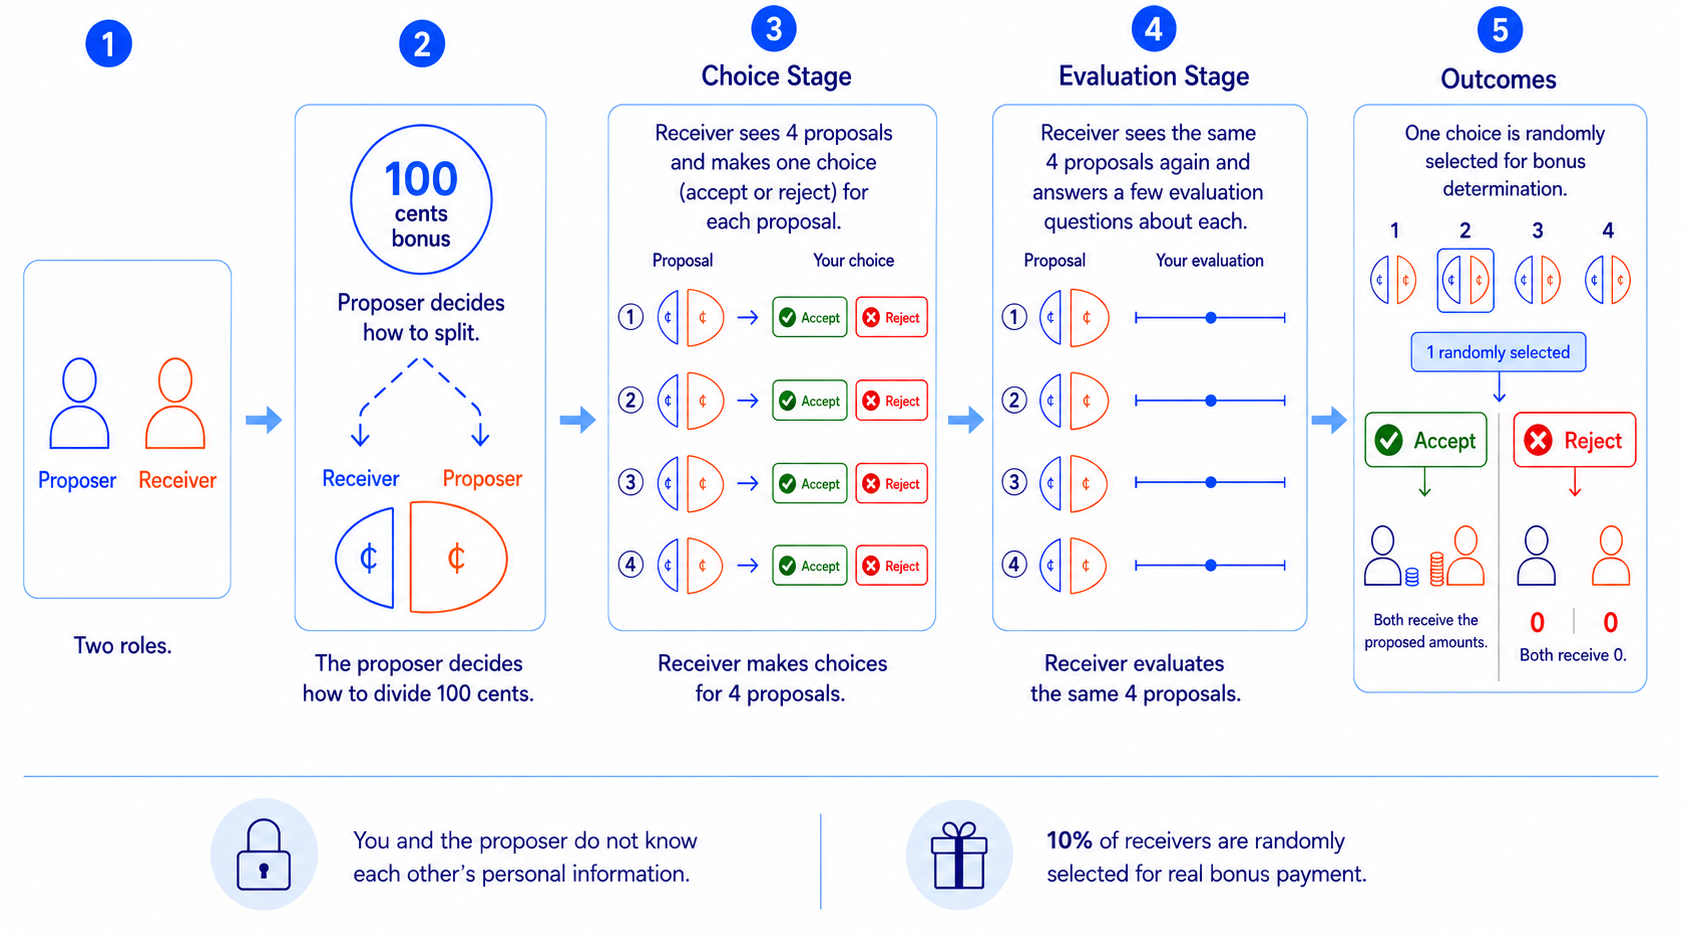
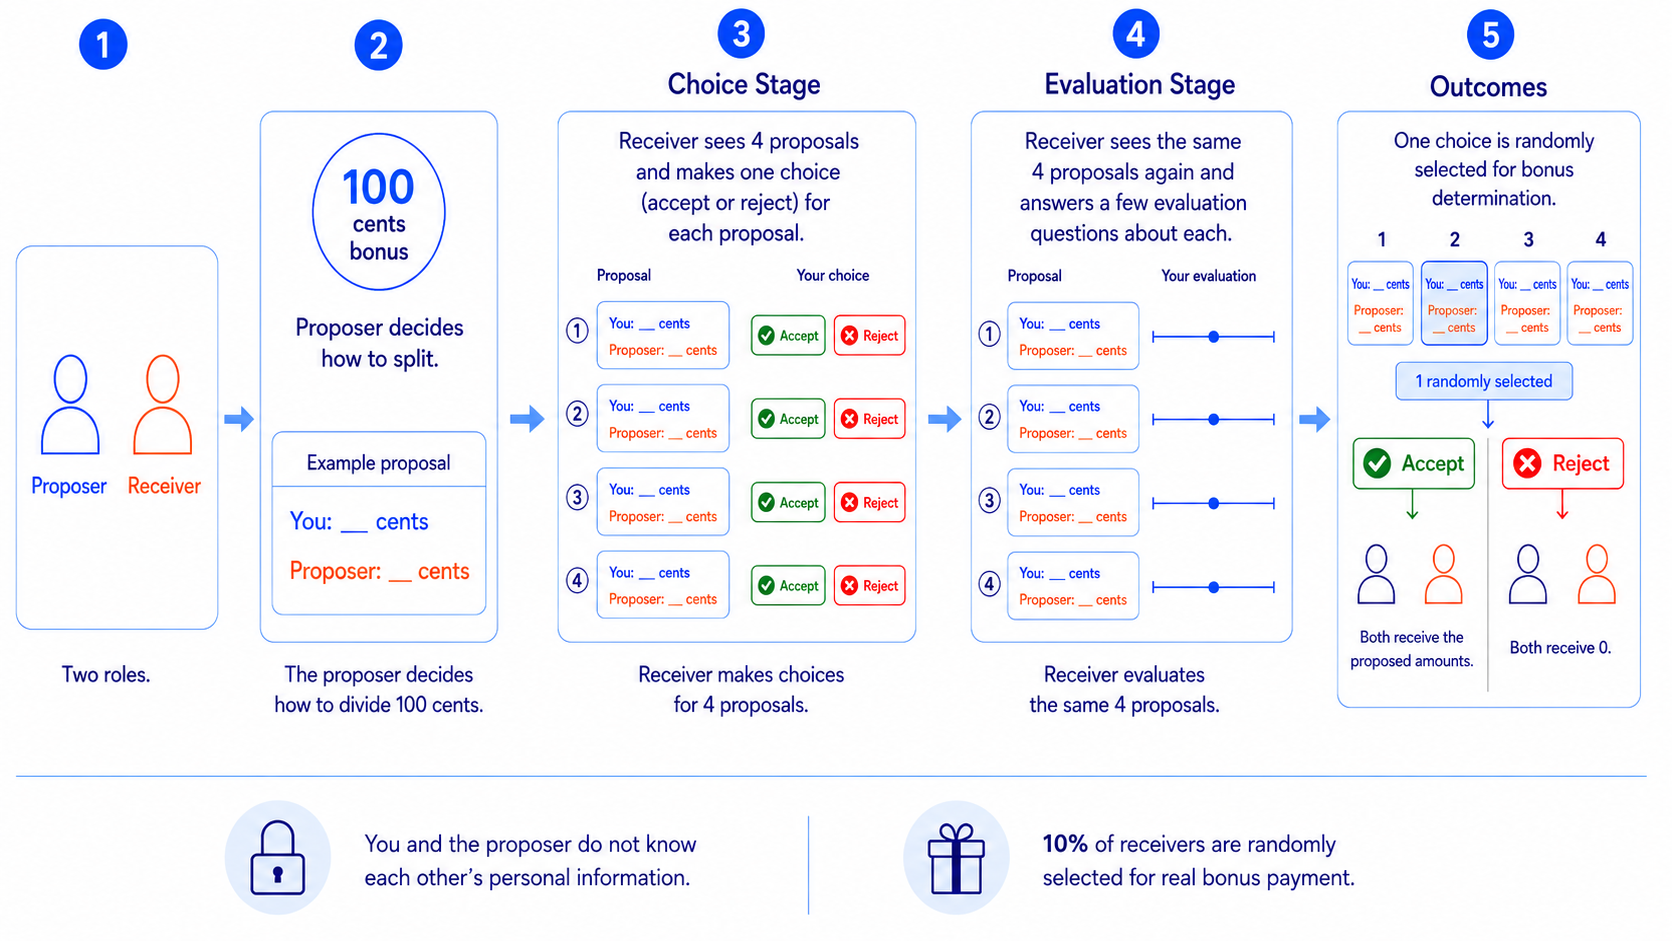
Add files via upload

diff --git a/experiment.js b/experiment.js
@@ -25,6 +25,7 @@ let comprehensionAttempts = 0;
 let comprehensionPassed = false;
 let excludedForComprehension = false;
 let dataSavedToDatapipe = false;
+let dataSaveFailed = false;
 
 function currentFullscreenElement() {
   return document.fullscreenElement || document.webkitFullscreenElement || document.mozFullScreenElement || document.msFullscreenElement || null;
@@ -421,67 +422,6 @@ function humanVerificationTrial(imagePath) {
   };
 }
 
-function instructionDiagramHtml() {
-  return `
-    <div class="instruction-diagram" aria-label="Ultimatum game flow diagram">
-      <div class="diagram-steps">
-        <div class="diagram-step">
-          <div class="step-number">1</div>
-          <div class="role-card">
-            <div class="role-pair">
-              <div class="person proposer-person"></div>
-              <div class="person receiver-person"></div>
-            </div>
-            <div class="role-labels"><span>Proposer</span><span>Receiver</span></div>
-          </div>
-          <div class="step-caption">Two roles.</div>
-        </div>
-        <div class="diagram-arrow">鈫?/div>
-        <div class="diagram-step">
-          <div class="step-number">2</div>
-          <div class="proposal-card">
-            <div class="bonus-circle">100<br><span>cents<br>bonus</span></div>
-            <div class="mini-caption">Proposer decides<br>how to split.</div>
-            <div class="mini-split">
-              <span>You</span>
-              <span>Proposer</span>
-            </div>
-          </div>
-          <div class="step-caption">The proposer decides how to divide 100 cents.</div>
-        </div>
-        <div class="diagram-arrow">鈫?/div>
-        <div class="diagram-step">
-          <div class="step-number">3</div>
-          <div class="receiver-card">
-            <div class="mini-caption">Receiver sees the<br>proposed split.</div>
-            <div class="mini-pie"><span>垄</span><span>垄</span></div>
-            <div class="mini-caption">Receiver makes<br>one decision.</div>
-            <div class="diagram-choice accept-choice">鉁?Accept</div>
-            <div class="diagram-choice reject-choice">鉁?Reject</div>
-          </div>
-          <div class="step-caption">The receiver has one chance to decide.</div>
-        </div>
-        <div class="diagram-arrow">鈫?/div>
-        <div class="diagram-step">
-          <div class="step-number">4</div>
-          <div class="outcome-card">
-            <div class="outcome-title">Outcomes</div>
-            <div class="diagram-choice accept-choice">鉁?Accept</div>
-            <div class="outcome-text">Both receive the proposed amounts.</div>
-            <div class="diagram-choice reject-choice">鉁?Reject</div>
-            <div class="zero-row"><span>0</span><span>0</span></div>
-            <div class="outcome-text">Both receive 0.</div>
-          </div>
-        </div>
-      </div>
-      <div class="diagram-notes">
-        <div>You and the proposer do not know each other's personal information.</div>
-        <div>${BONUS_DRAW_PERCENT}% of receivers are randomly selected for real bonus payment.</div>
-      </div>
-    </div>
-  `;
-}
-
 function instructionTrial() {
   return {
     type: jsPsychHtmlButtonResponse,
@@ -721,7 +661,7 @@ function proposalDecisionTrial(condition, split, trialIndex) {
     ...split
   };
   const html = shellHtml(`
-    <div class="stimulus-content pretest-decision-content">
+    <div class="stimulus-content exp2-decision-content">
       <div class="offer-title">Proposal ${trialNumber}: The other participant proposed this allocation of 100 cents.</div>
       <div class="offer-subtitle">
         This is your <span class="doc-red">actual decision</span> for this proposal. Please decide whether to accept or reject it.<br>
@@ -841,13 +781,13 @@ function proposalEvaluationTrial(condition, split, trialIndex) {
     ...split
   };
   const html = shellHtml(`
-    <form id="proposal-rating-form" class="stimulus-content pretest-rating-form" novalidate>
+    <form id="proposal-rating-form" class="stimulus-content exp2-rating-form" novalidate>
       <div class="offer-title">Proposal ${trialNumber}: The other participant proposed this allocation of 100 cents.</div>
       <div class="offer-subtitle">
         Please evaluate this proposal carefully.
       </div>
       <div class="amount-display-wrap exp2-display-wrap">${amountDisplayHtml(stimulusCondition)}</div>
-      <div class="pretest-scale-panel">
+      <div class="exp2-scale-panel">
         ${questions.map(q => scaleQuestionHtml(q.name, q.text, q.left, q.right)).join("")}
       </div>
       <button type="submit" class="form-submit">Next</button>
@@ -1170,8 +1110,8 @@ function postQuestionnaireTrials() {
     ], 5),
     postScaleTrial([
       {
-        name: "chart_influence_impression_7",
-        text: "Thinking back across the decisions, to what extent did the amount displays seem designed to influence your impression of the allocations?",
+        name: "font_size_influence_impression_7",
+        text: "Thinking back across the decisions, to what extent did the font-size differences in the displayed amounts seem designed to influence your impression of the allocations?",
         left: "1 - Not at all",
         right: "7 - Very much"
       }
@@ -1245,6 +1185,24 @@ function savingTrial() {
   };
 }
 
+function datapipeSaveSucceeded(data) {
+  if (!data || typeof data !== "object") {
+    return true;
+  }
+  const statusText = String(data.status || data.save_status || data.result || "").toLowerCase();
+  const errorText = String(data.error || data.error_message || data.message || "").toLowerCase();
+  if (data.success === false || data.saved === false || data.error) {
+    return false;
+  }
+  if (statusText.includes("fail") || statusText.includes("error")) {
+    return false;
+  }
+  if (errorText.includes("fail") || errorText.includes("error")) {
+    return false;
+  }
+  return true;
+}
+
 function pipeSaveTrial() {
   return {
     type: jsPsychPipe,
@@ -1253,12 +1211,27 @@ function pipeSaveTrial() {
     filename: data_filename,
     data_string: () => getFilteredDataCsv(),
     wait_message: "<div class='study-shell'><div class='qualtrics-card standalone saving-card'><h2>Saving your data...</h2><p>Please do not close this page.</p></div></div>",
-    on_finish: function () {
-      if (comprehensionPassed) {
+    on_finish: function (data) {
+      if (comprehensionPassed && datapipeSaveSucceeded(data)) {
         dataSavedToDatapipe = true;
         setStoredStudyStatus("completed");
+      } else if (comprehensionPassed) {
+        dataSaveFailed = true;
       }
     }
+  };
+}
+
+function saveFailedTrial() {
+  return {
+    type: jsPsychHtmlButtonResponse,
+    stimulus: shellHtml(`
+      <h2 class="intro-title">We could not confirm that your data were saved.</h2>
+      <p class="warning">Please do not submit this study on Prolific yet.</p>
+      <p>Please keep this page open and contact the researcher for assistance.</p>
+    `, STUDY_TITLE, "abort-shell"),
+    choices: ["Exit"],
+    data: { phase: "save_failed" }
   };
 }
 
@@ -1400,6 +1373,13 @@ async function buildAndRunExperiment() {
     timeline: [localSaveNoticeTrial()],
     conditional_function: function () {
       return !isDatapipeConfigured() && (comprehensionPassed || excludedForComprehension);
+    }
+  });
+
+  timeline.push({
+    timeline: [saveFailedTrial()],
+    conditional_function: function () {
+      return comprehensionPassed && isDatapipeConfigured() && dataSaveFailed && !dataSavedToDatapipe;
     }
   });
 

diff --git a/index.html b/index.html
@@ -12,8 +12,8 @@
   <script src="https://unpkg.com/@jspsych/plugin-fullscreen@1.2.1"></script>
   <script src="https://unpkg.com/@jspsych-contrib/plugin-pipe"></script>
   <link href="https://unpkg.com/jspsych@7.3.4/css/jspsych.css" rel="stylesheet" type="text/css" />
-  <link href="style.css?v=20260628-exp2-font-1" rel="stylesheet" type="text/css" />
+  <link href="style.css?v=20260628-exp2-save-1" rel="stylesheet" type="text/css" />
 </head>
 <body></body>
-<script src="experiment.js?v=20260628-exp2-font-1"></script>
+<script src="experiment.js?v=20260628-exp2-save-1"></script>
 </html>